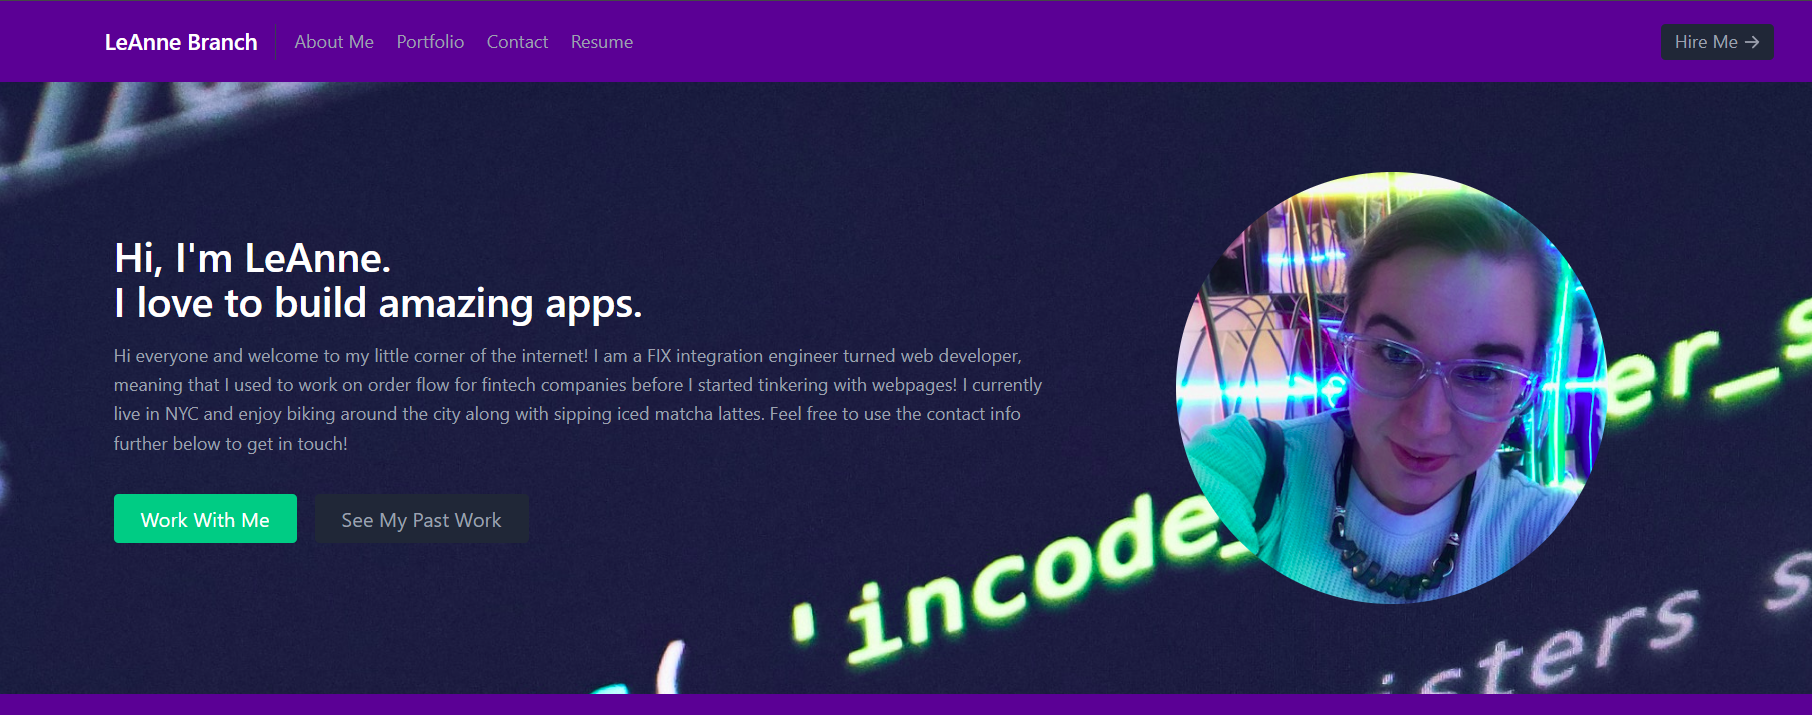
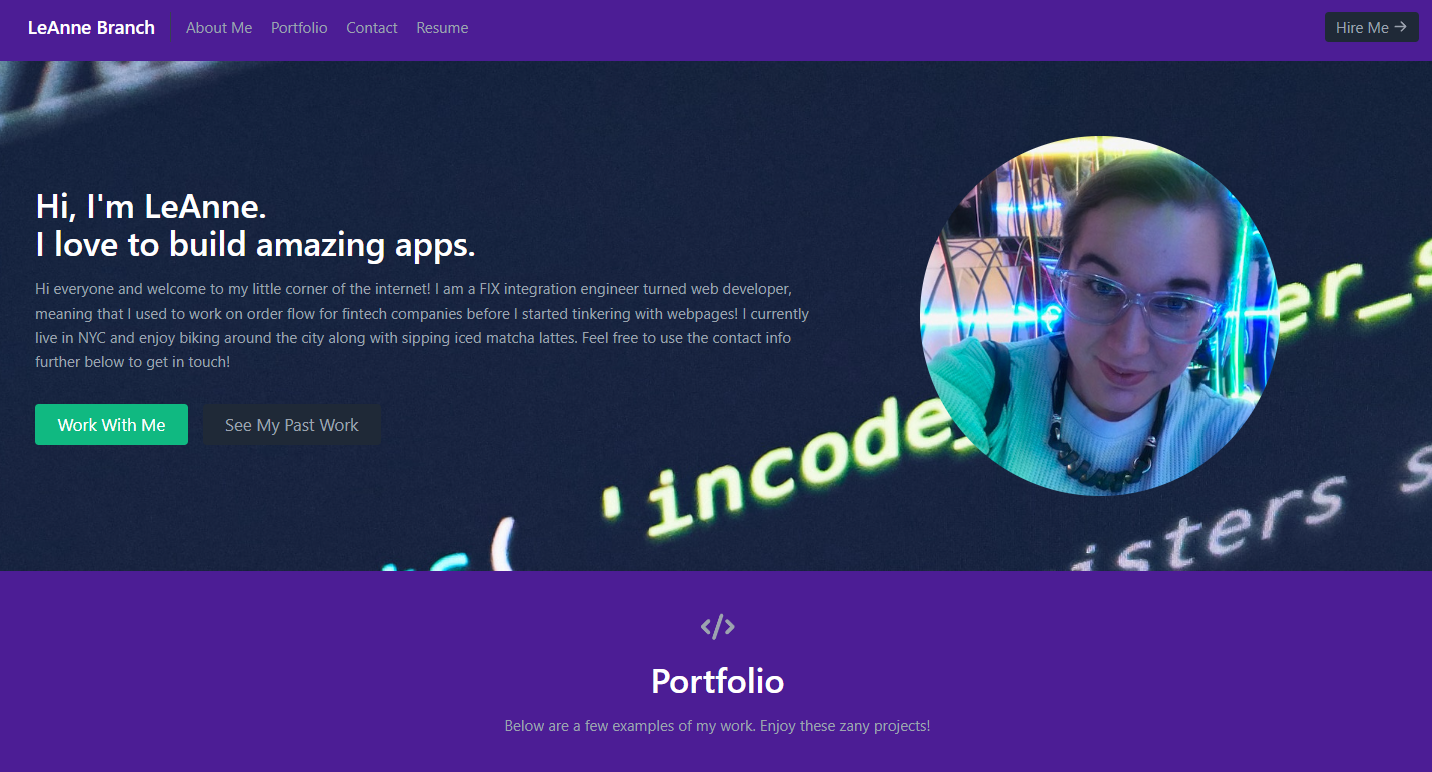
replaces app screenshot for better one for Readme

diff --git a/src/components/Projects.js b/src/components/Projects.js
@@ -11,12 +11,10 @@ export default function Projects() {
         <div className="flex flex-col w-full mb-20">
           <CodeIcon className="mx-auto inline-block w-10 mb-4" />
           <h1 className="sm:text-4xl text-3xl font-medium title-font mb-4 text-white">
-            Apps I've Built
+            Portfolio
           </h1>
           <p className="lg:w-2/3 mx-auto leading-relaxed text-base">
-            Lorem ipsum, dolor sit amet consectetur adipisicing elit. Explicabo
-            facilis repellat ab cupiditate alias vero aliquid obcaecati quisquam
-            fuga dolore.
+            Below are a few examples of my work. Enjoy these zany projects!
           </p>
         </div>
         <div className="flex flex-wrap -m-4">

diff --git a/src/components/Contact.js b/src/components/Contact.js
@@ -72,11 +72,10 @@ export default function Contact() {
           className="lg:w-1/3 md:w-1/2 flex flex-col md:ml-auto w-full md:py-8 mt-8 md:mt-0"
         >
           <h2 className="text-white sm:text-4xl text-3xl mb-1 font-medium title-font">
-            Hire Me
+            Contact
           </h2>
           <p className="leading-relaxed mb-5">
-            Lorem ipsum dolor sit amet consectetur, adipisicing elit. Illum
-            suscipit officia aspernatur veritatis. Asperiores, aliquid?
+            Fill out the form below to get in touch!
           </p>
           <div className="relative mb-4">
             <label htmlFor="name" className="leading-7 text-sm text-gray-400">
